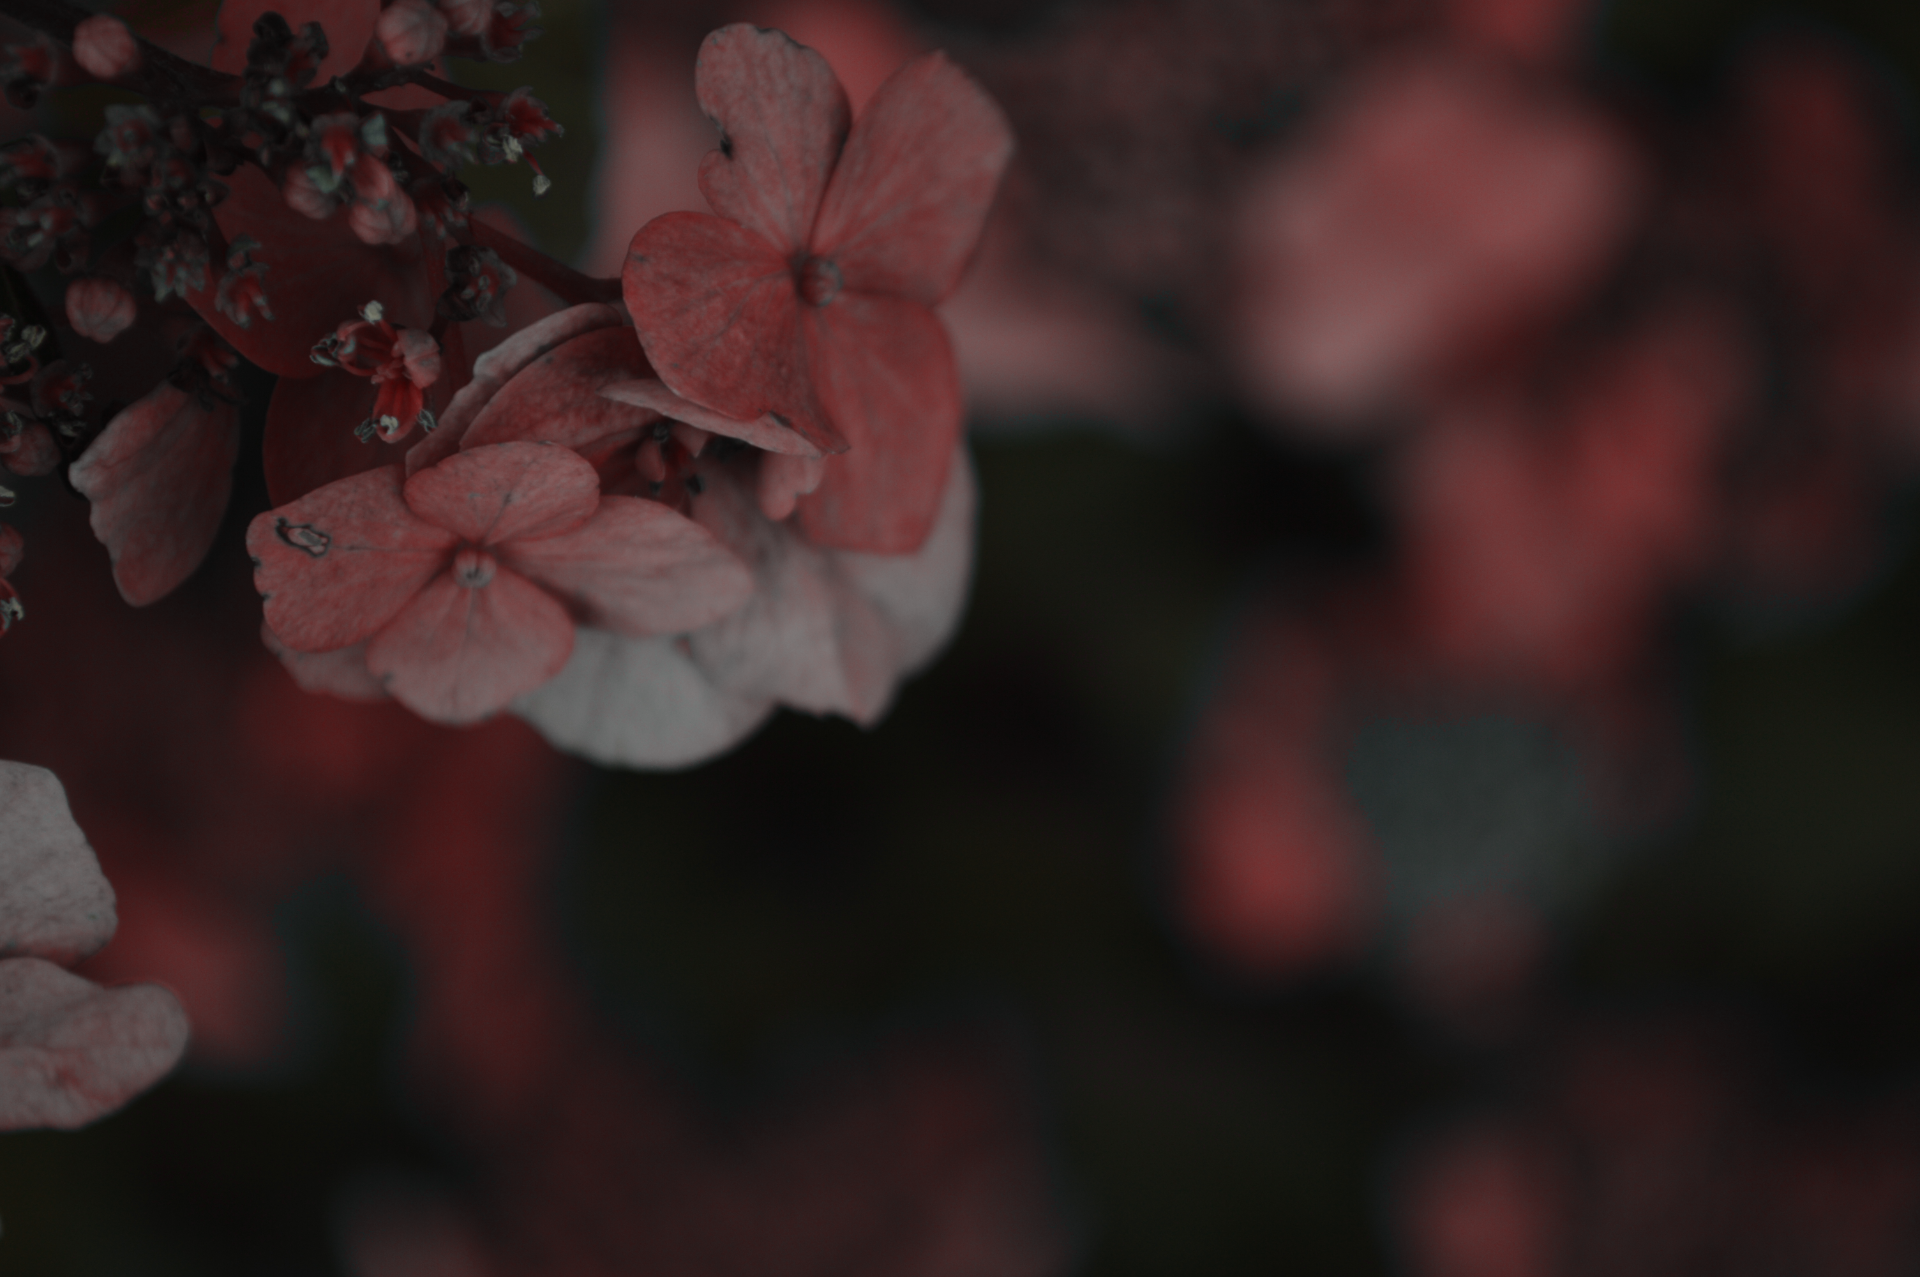
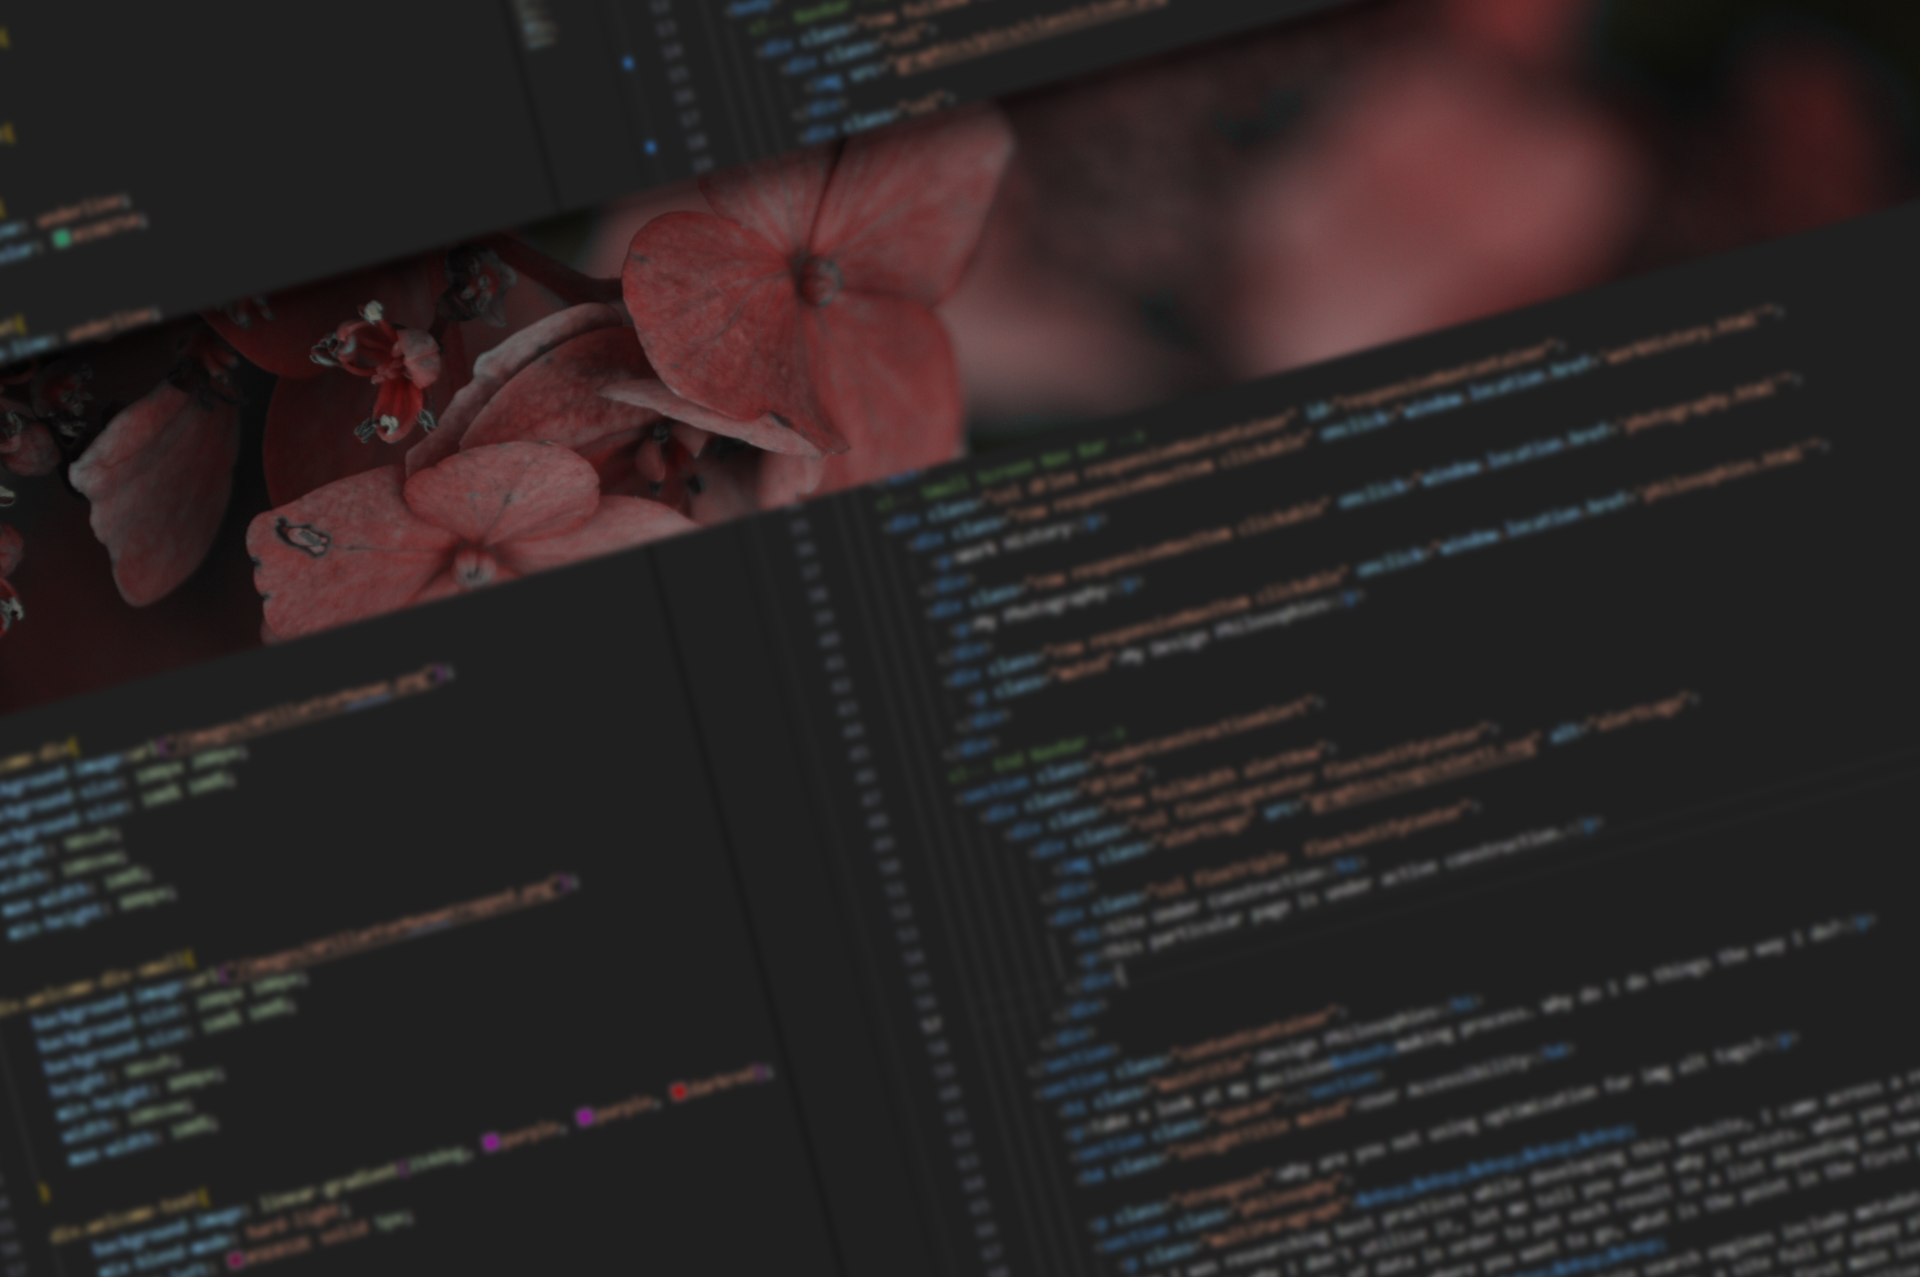
Changed home main page and added FaQ content.
-Changed the main picture on the home screen to include legacy code from the website to better give the programming-focused nature of the site.
-Added more FaQ bullet points to give more information for the users to understand my heuristics.

diff --git a/philosophies.html b/philosophies.html
@@ -60,7 +60,8 @@
     </section>
     <section class="contentContainer">
       <h1 class="mainTitle">Design Philosophies</h1>
-      <p>Take a look at my decision&#45;making process. Why do I do things the way I do?</p>
+      <p>Take a look at my decision&ndash;making process. Why do I do things the way I do?</p>
+      <section class="spacer"></section>
       <h4 class="insightTitle muted">User Accessibility</h4>
       
       <p class="strongest">Why are you not using optimization for img alt tags?</p>
@@ -90,11 +91,46 @@
         </p>
         <p class="multiParagraph">&nbsp;&nbsp;&nbsp;&nbsp;&nbsp;
           My alt tags are utilized how they were intended in the language of HTML. It is very important to be able to translate my website throughout many
-          different use&#45;case. My capstone project in university was a presentation about accessibility in design heuristics, and I intend to capitalize on the research
+          different use&ndash;case. My capstone project in university was a presentation about accessibility in design heuristics, and I intend to capitalize on the research
           I did for that presentation in this project. I am proud to make this website accessible to alternative content browsers such as screen readers for
           the visually impaired users I may have.
         </p>
       </section>
+      <p class="strongest">Do you use desktop, or mobile first design philosophies?</p>
+        <section class="philosophy">
+          <p class="multiParagraph">&nbsp;&nbsp;&nbsp;&nbsp;&nbsp;
+          This is a tough question to answer. I find that each have its use&ndash;case depending on the project at hand as well as the intended audience. I
+          believe mobile&ndash;first layouts are significantly more popular now for good reason. Because of this, I have a strong leaning towards mobile&ndash;first
+          layouts in the work that I do. You may also find, however, that this site uses a desktop&ndash;first layout in addition to responsive layouts to accommodate
+          mobile and small screen patterns. So why would I dabble in both? Firstly, I need to consider who it is that should be viewing my website. 
+          </p>
+          <p class="multiParagraph">&nbsp;&nbsp;&nbsp;&nbsp;&nbsp;
+          In the situations I have given this website URL to, job applications and hiring managers prefer to view my content on a desktop browser instead of mobile
+          platforms. Thus, I have adopted a desktop&ndash;first design philosophy while making this website <em>specifically</em>. Some developers may have opted
+          to go for a mobile&ndash;first design platform regardless of the end user. I find that this call is one to be decided by a project manager when working
+          in a professional environment, and I would defer to their judgement while not working on my personal projects. But for this project, I would argue that
+          it may be beneficial to look at desktop&ndash;centric designs. If my target audiences use mainly desktop platforms, they will not need to render my website
+          in mobile layouts at all. And thus, choosing to opt for a mobile&ndash;design will cost users slightly more render resources to force the conversion from
+          mobile to desktop. By choosing a desktop centric approach, this conversion is not needed, and the accompanying CSS may be discarded by the browser. This
+          may be a small optimization for my end users, but it is an optimization nonetheless. 
+          </p>
+        </section>
+      <p class="strongest">Nice scroll animation on your home page. Why don't you use that more?</p>
+        <section class="philosophy">
+          <p class="multiParagraph">&nbsp;&nbsp;&nbsp;&nbsp;&nbsp;
+          In most things, I believe less is more. It's vitally important to not overwhelm users with fancy animations. At the end of the day, graphic design still
+          needs to convey information. If your designs aren't aiding the message you are trying to deliver, then why even have them in the first place? I do believe
+          in having animations to help my designs come across better to the audience of the modern internet&mdash;I think you would be hard pressed to find a website
+          today that has any weight behind it without animations at all. I consider these animations to be used sparingly&mdash;and never at the cost of ease of use.</p>
+          
+          <p class="multiParagraph">&nbsp;&nbsp;&nbsp;&nbsp;&nbsp;
+          Some animations, like those that used to be featured on popular websites such as Samsung or Apple's homepage, would hijack the user's
+          scrolling capability. This would play the animation of their product while keeping the user where they were instead of scrolling them further down the page. Personally,
+          I do not believe in this design for a modern audience. This design may serve to only encumber the end user, and inhibit their access to further sections of the
+          website. Instead, I use scroll&ndash;based animations sparingly like the one featured in my home page as a way of highlighting content that I believe to be
+          important for those in my target audience.
+          </p>
+        </section>
         
       <h4 class="insightTitle muted">Design Implementations</h4>
       <p class="strongest">Why do you declare so many zeros?</p>
@@ -102,11 +138,11 @@
         <p class="multiParagraph">&nbsp;&nbsp;&nbsp;&nbsp;&nbsp;
           There are a number of different situations where I declare quite a few units. That's just how web design works. The thing is, choosing which units
           to declare and why is the key to maintainable codebases. You may notice through looking into my source code that I have a number of instances where
-          I declare a unit to be 0. For example, I utilize longform padding delcarations such as <span class="code">padding: 0 5rem 0 5rem;</span>
-          it may seem relatively silly to have the two extra 0's when a simple <span class="code">padding-inline: 5rem;</span> would suffice.
+          I declare a unit to be 0. For example, I utilize longform padding declarations such as <span class="code">padding: 0 5rem 0 5rem;</span>
+          it may seem relatively silly to have the two extra 0's when a simple <span class="code">padding&ndash;inline: 5rem;</span> would suffice.
         </p>
         <p class="multiParagraph">&nbsp;&nbsp;&nbsp;&nbsp;&nbsp;
-          I don't actually believe that would be the smartest approach&#8212;especially when it comes to code maintenance. You see, I could easily use the
+          I don't actually believe that would be the smartest approach&mdash;especially when it comes to code maintenance. You see, I could easily use the
           proper short form declarations to cut down on the extra typing required. However, when I come back to that element and decide it needs extra styling
           in directions that I haven't yet specified, I end up putting even more time into it while trying to fix that previous mistake. When you're talking about
           money per minute, it's more effective to already declare those placeholders. That way, it's simple to make changes on the fly.
@@ -116,8 +152,18 @@
       <p class="strongest">Why aren't you using standard <span class="code">ui</span> and <span class="code">ul</span> for your navbars?</p>
       <section class="philosophy">
         <p class="multiParagraph">&nbsp;&nbsp;&nbsp;&nbsp;&nbsp;
-          This is an interesting one. It all stems from way back in middle school when I first dabbled in HTML and CSS.
+          This is an interesting one. It all stems from way back in middle school when I first dabbled in HTML and CSS. using <span class="code">ui</span> and 
+          <span class="code">ul</span> in order to structure navbars seems to be a tale as old as time itself. With some simple code, you can have a decent
+          looking navbar with some html tags, and clever CSS styling. But that's just the thing&mdash;decent. In developmental design, pros and cons are utilized
+          heavily to ensure that design visions align with user&ndash;experience. In order to greatly hone user experience over traditional designs, I have found that
+          flexbox may be used to give better control over navbar elements while maintaining the functionality of lists.</p>
 
+          <p class="multiParagraph">&nbsp;&nbsp;&nbsp;&nbsp;&nbsp;
+          Crucially, this does not meaningfully impede accessibility according to my research into the 
+          topic. Screen readers and accessibility devices are able to maintain relation&ndash;based operations by recognizing children and sibling elements within
+          a container. Furthermore, appropriate class names in CSS are used on top of that to strengthen the association of typical navbars to this flexbox design.
+          All in all, I am getting more fine design tuning while maintaining the same ease of use that accessibility&ndash;dependent users will expect from website development.
+          </p>
       </section>
     </section>
   </body>

diff --git a/style.css b/style.css
@@ -5,7 +5,6 @@
    License: none (public domain)
    Boilerplate CSS reset to ensure content uniformity
 */
-
 html, body, div, span, applet, object, iframe,
 h1, h2, h3, h4, h5, h6, p, blockquote, pre,
 a, abbr, acronym, address, big, cite, code,
@@ -31,11 +30,20 @@ article, aside, details, figcaption, figure,
 footer, header, hgroup, menu, nav, section {
 	display: block;
 }
+/* End Resets */
+
 body {
 	line-height: 1;
     font-family: "Helvetica Neue", "Helvetica", "Arial";
     color: #170001;
     font-size: 3rem;
+}
+strong{
+    font-weight: 600;
+}
+em{
+    font-weight: 600;
+    font-style: italic;
 }
 ol, ul {
 	list-style: none;

diff --git a/philosophies.css b/philosophies.css
@@ -15,7 +15,7 @@ body{
 }
 
 .insightTitle{
-    padding: 5rem 0 0 0;
+    padding: 0 0 0 0;
 }
 
 .code{
@@ -26,4 +26,7 @@ body{
 .code::before, .code::after{
     content: "\"";
     background-color: #272323;
+}
+.philosophy{
+    padding: 0 0 4rem 0;
 }
